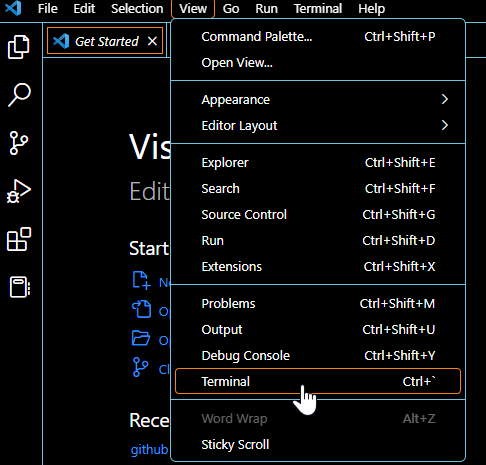
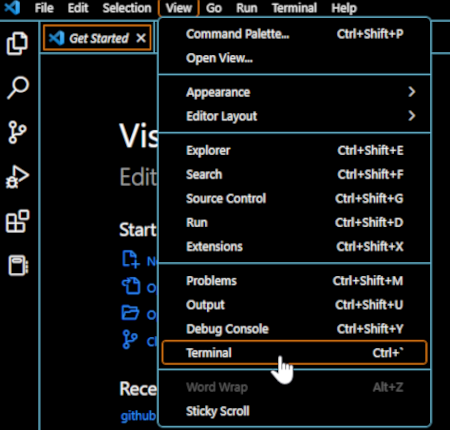
readjust images, added table

diff --git a/04-DevelopmentEnvironment/01A-tutorial-VSCode.md b/04-DevelopmentEnvironment/01A-tutorial-VSCode.md
@@ -17,26 +17,45 @@ VSCode is an editor made for coding and debugging. It supports multiple programm
 VSCode can be downloaded from <a href="https://code.visualstudio.com/download" target="_blank">VSCode website</a>. Once the download is complete, run the installer to install VSCode on your system. <br>
 
 ## Shortcuts
-The most useful command you need to learn is ctrl + shift + p which opens the search bar for all commands. You can search for all available commands and their shortcuts. <br>
+The most useful shortcut you need to learn is `ctrl+shift+p` (or `cmd+shift+p` on mac) which opens the search bar for all commands. You can search for all available commands and their shortcuts. Below is a list of some useful shortcuts and the commands:
+<br>
+<table>
+<thead><tr><th>Shortcut</th><th>Command</th></tr></thead><tbody>
+ <tr><td><blockcode>ctrl+k v</blockcode></td><td>open markdown preview to the side</td></tr>
+  <tr><td><blockcode>ctrl+shift+v</blockcode></td><td>open Markdown preview</td></tr>
+ <tr><td><blockcode>shift+alt+c </blockcode></td><td>copy path of active file</td></tr>
+ <tr><td><blockcode>ctrl+s</blockcode></td><td>file: save</td></tr>
+ <tr><td><blockcode>ctrl+shift+s</blockcode></td><td>file: save as..</td></tr>
+</tbody></table>
 
 ## Open a project
 To open a project, go to `File` menu and select the `Open Folder` option. Select the folder containing your project files. <br>
+<br>
 ![V1](assets/images/VSCode_1.png) <br>
+<br>
+
 The project folder, subfolders and files will appear in the `Explorer` pane on the left side of the editor. Select the file and start editing. <br>
+<br>
 ![V2](assets/images/VSCode_2.png) <br>
+<br>
 
 ## Terminal
 The integrated terminal allows you to run command-line tools and scripts directly within the editor. If the terminal does not appear automatically at the bottom of the editor, it can be opened from the "View" menu and selecting "Terminal" or using the  ``ctrl + ` `` shortcut keys. <br>
+<br>
 ![V3](assets/images/VSCode_3.png) <br>
+<br>
 
 ## Debugging
 VSCode has powerful tools to help you find and fix errors in your code. To start debugging, open the file containing the code, click `Run and Debug` button on the left side. This will open the `Debug` pane that lets you configure your debug settings and start the process. <br>
+<br>
 ![V4](assets/images/VSCode_4.png) <br>
+<br>
 
 ## Version Control
 It is possible to work with Git repositories directly from the editor. You can clone a repo, or initialize a repo for your project from the terminal. `Source Control` pane on the left is used to manage your Git repositories. The common Git operations such as Pull, Push, Commit, and creating branches can be performed from here. <br>
+<br>
 ![V5](assets/images/VSCode_5.png) <br>
-
+<br>
 
 
 
